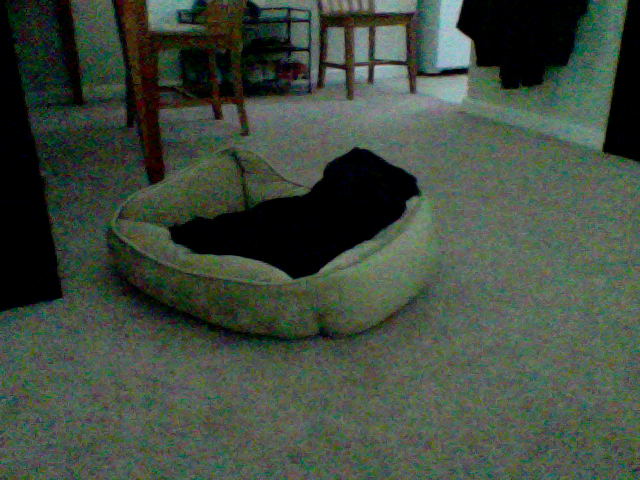
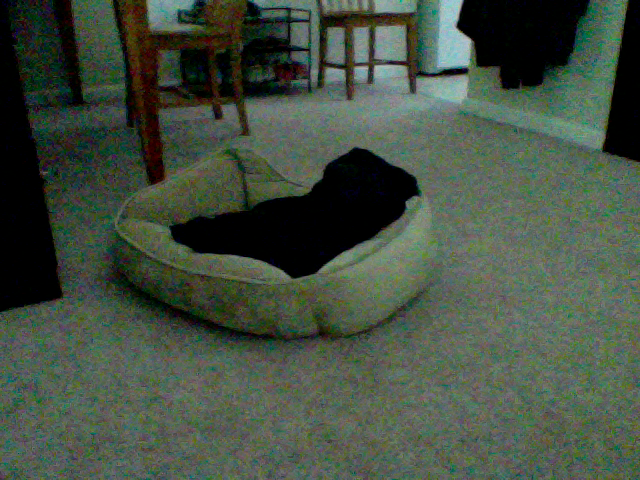
update at Month05Day09Time11:43

diff --git a/index.html b/index.html
@@ -39,8 +39,8 @@
       <!-- Example row of columns -->
       <div class="row">
         <div class="col-md-4">
-	<p>This picture was updated at Month05Day09Time11:42</p>
-		<img src="9_pic.png" />
+	<p>This picture was updated at Month05Day09Time11:43</p>
+		<img src="5_pic.png" />
         </div>
       </div>
 
